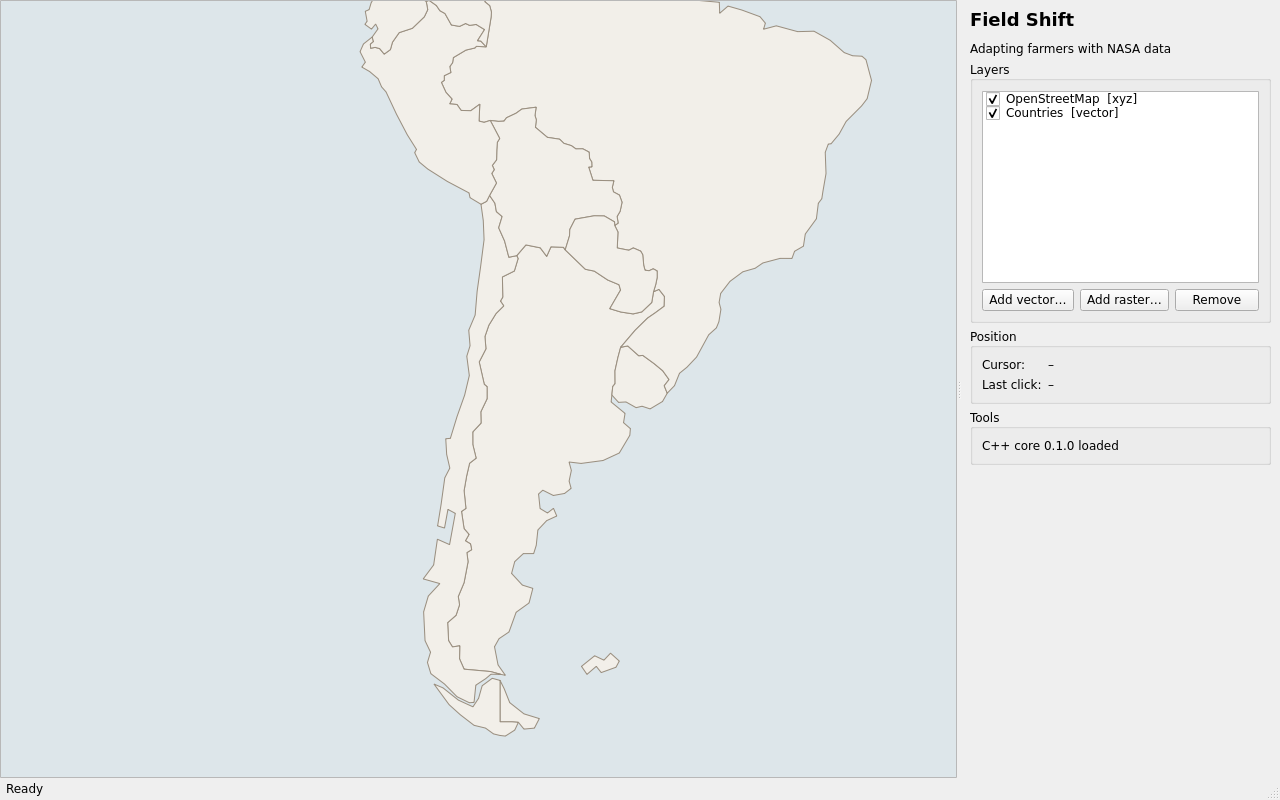
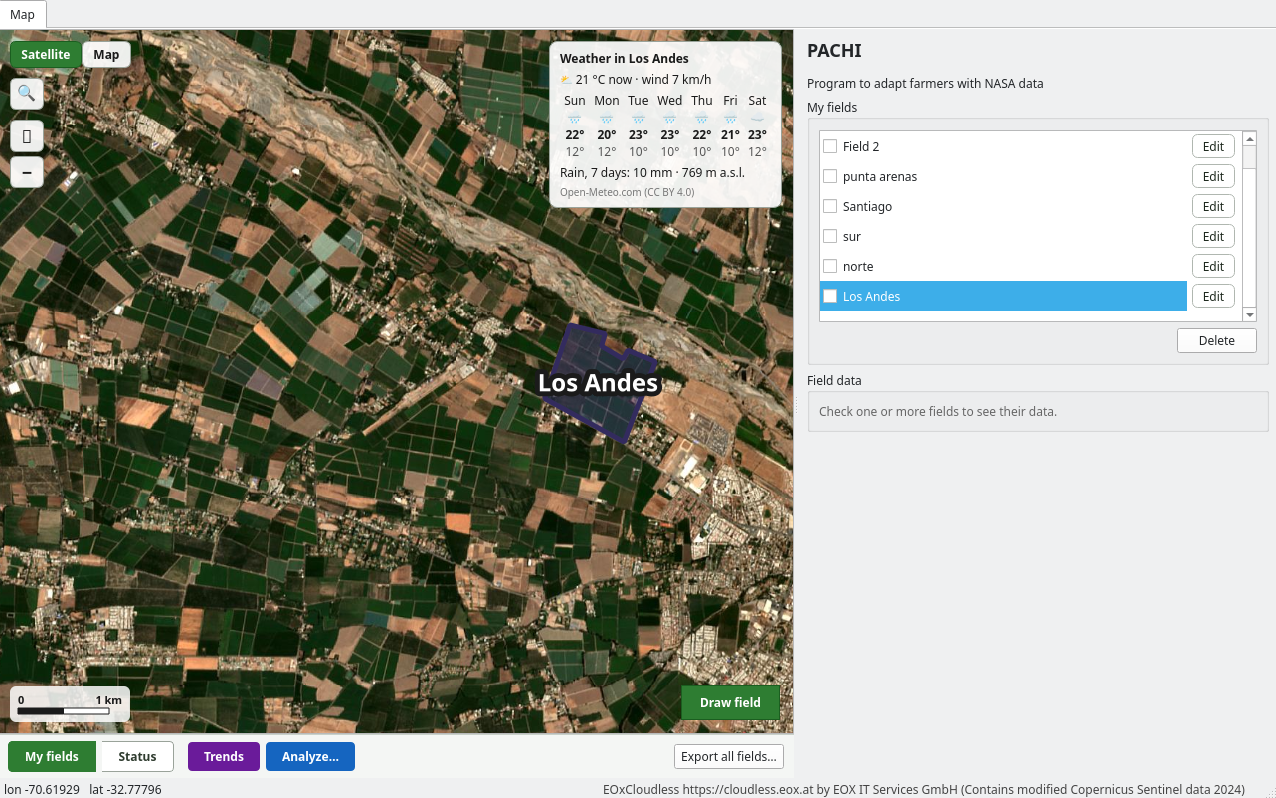
docs images and status panel changed!

diff --git a/fieldshift/ui/status_panel.py b/fieldshift/ui/status_panel.py
@@ -1,0 +1,204 @@
+"""Status panel: the right column of the map tab while "Status" is chosen,
+with how one field is now. Top: field chooser and period (7 / 14 / 30 days).
+Below, scrolling: the "today" tiles, then the Weather, Growth and Soil
+sections (table left, chart right, alerts under them).
+
+Clicking another field on the map shows that field; choosing one in the
+list also moves the map to it. Uses the map only
+through MapView (clicked, layer_hovered) and the fields through
+FieldsManager. Every text comes from fieldshift/i18n/<language>.json.
+"""
+
+from fieldshift.i18n import tr
+from fieldshift.map import Event
+from fieldshift.qt import QtCore, QtWidgets
+from fieldshift.status import PERIODS, status_report
+from fieldshift.ui.analysis_widgets import format_date
+from fieldshift.ui.status_widgets import SectionCard, SummaryTile
+
+# smallest width of the panel (pixels)
+MIN_WIDTH_PX = 480
+
+_STYLE = """
+QFrame#statusPanel { background: #f4f6f4; }
+QScrollArea, QWidget#statusContent { background: transparent; border: none; }
+QPushButton#period { border: 1px solid #9aa39a; padding: 3px 10px; background: white; }
+QPushButton#period:checked { background: #00796b; color: white; border-color: #00796b; }
+QLabel#exampleBanner { background: #fff8e1; border: 1px solid #ffe082; border-radius: 4px;
+                       padding: 4px 8px; color: #6d4c00; }
+"""
+
+
+# the panel. open(layer_id) shows a field
+class StatusPanel(QtWidgets.QFrame):
+
+    # (MapView view, FieldsManager fields, QWidget parent = None)
+    def __init__(self, view, fields, parent=None):
+        super().__init__(parent)
+        self.view = view
+        self.fields = fields
+        self.layer_id = None           # field shown
+        self.days = PERIODS[0]
+        self.report = None             # StatusReport shown
+        self.sections = {}             # section id -> SectionCard
+        self._hovered = None           # field under the mouse on the map
+        # emitted with (str layer_id) when an alert's "See suggestion" is clicked
+        self.suggestion_requested = Event()
+        self.setObjectName("statusPanel")
+        self.setStyleSheet(_STYLE)
+
+        title = QtWidgets.QLabel(f"<b>{tr('modes.status')}</b>")
+        title.setStyleSheet("font-size: 17px;")
+        self.field_box = QtWidgets.QComboBox()
+        self.field_box.setMinimumWidth(160)
+        self.field_box.setToolTip(tr("status.field_tooltip"))
+        self.field_box.activated.connect(self._on_field_chosen)
+        self.period_buttons = {}
+        periods = QtWidgets.QHBoxLayout()
+        periods.setSpacing(0)
+        group = QtWidgets.QButtonGroup(self)
+        for days in PERIODS:
+            button = QtWidgets.QPushButton(tr("status.days", days=days))
+            button.setObjectName("period")
+            button.setCheckable(True)
+            button.setChecked(days == self.days)
+            button.setToolTip(tr("status.period_tooltip"))
+            button.clicked.connect(lambda _=False, d=days: self.set_days(d))
+            group.addButton(button)
+            periods.addWidget(button)
+            self.period_buttons[days] = button
+        header = QtWidgets.QHBoxLayout()
+        header.addWidget(title)
+        header.addSpacing(8)
+        header.addWidget(self.field_box, 1)
+        header.addSpacing(8)
+        header.addLayout(periods)
+
+        self.info_label = QtWidgets.QLabel()
+        self.info_label.setStyleSheet("color: #666; font-size: 11px;")
+        #self.example_label = QtWidgets.QLabel(tr("status.example"))
+        #self.example_label.setObjectName("exampleBanner")
+        #self.example_label.setWordWrap(True)
+
+        self.content = QtWidgets.QWidget()
+        self.content.setObjectName("statusContent")
+        self.content_layout = QtWidgets.QVBoxLayout(self.content)
+        self.content_layout.setContentsMargins(0, 0, 4, 0)
+        self.content_layout.setSpacing(10)
+        self.scroll = QtWidgets.QScrollArea()
+        self.scroll.setWidgetResizable(True)
+        self.scroll.setHorizontalScrollBarPolicy(QtCore.Qt.ScrollBarPolicy.ScrollBarAlwaysOff)
+        self.scroll.setWidget(self.content)
+
+        layout = QtWidgets.QVBoxLayout(self)
+        layout.setContentsMargins(12, 10, 8, 10)
+        layout.setSpacing(6)
+        layout.addLayout(header)
+        layout.addWidget(self.info_label)
+        #layout.addWidget(self.example_label)
+        layout.addWidget(self.scroll, 1)
+        self.setMinimumWidth(MIN_WIDTH_PX)
+
+        view.layer_hovered.connect(self._on_hover)
+        view.clicked.connect(self._on_map_click)
+        fields.fields_changed.connect(self._on_fields_changed)
+
+    # (str layer_id)
+    # shows that field (the first one when None). returns True when a field
+    # is shown
+    def open(self, layer_id=None):
+        ids = self.fields.layer_ids()
+        if not ids:
+            return False
+        self.layer_id = layer_id if layer_id in ids else ids[0]
+        self._fill_fields()
+        self.refresh()
+        return True
+
+    # (int days)
+    # shows the last days (one of PERIODS)
+    def set_days(self, days):
+        self.days = days
+        self.period_buttons[days].setChecked(True)
+        if self.report is not None:
+            self.refresh()
+
+    # ()
+    # builds the report of the field and period shown again
+    def refresh(self):
+        field = self.fields.field(self.layer_id)
+        if field is None:
+            return
+        self.report = report = status_report(field, self.days)
+        self.info_label.setText(tr("status.info", date=format_date(report.last_date),
+                                   days=report.days))
+        #self.example_label.setVisible(report.example)
+        while self.content_layout.count():
+            item = self.content_layout.takeAt(0)
+            if item.widget() is not None:
+                item.widget().deleteLater()
+        self.sections = {}
+
+        today = QtWidgets.QLabel(f"<b>{tr('status.today')}</b>")
+        self.content_layout.addWidget(today)
+        tiles = QtWidgets.QGridLayout()
+        tiles.setSpacing(6)
+        for i, tile in enumerate(report.summary):
+            widget = SummaryTile(tile,3)
+            #widget.clicked.connect(self.show_row)
+            tiles.addWidget(widget, i // 3, i % 3)
+        alerts = len(report.alerts())
+        holder = QtWidgets.QWidget()
+        holder.setLayout(tiles)
+        self.content_layout.addWidget(holder)
+        #if alerts:
+            #count = QtWidgets.QLabel(tr("status.alert_count", count=alerts))
+            #count.setStyleSheet("color: #c62828;")
+            #self.content_layout.addWidget(count)
+        #for section in report.sections:
+            #card = SectionCard(section)
+            #card.suggestion_requested.connect(
+            #    lambda: self.suggestion_requested.emit(self.layer_id))
+            #self.content_layout.addWidget(card)
+            #self.sections[section.id] = card
+        self.content_layout.addStretch(1)
+
+    # (str section_id, str row_key)
+    # scrolls to a section and shows that row in its chart
+    def show_row(self, section_id, row_key):
+        card = self.sections.get(section_id)
+        if card is None:
+            return
+        card.table.select_key(row_key)
+        self.scroll.ensureWidgetVisible(card, 0, 0)
+        QtCore.QTimer.singleShot(0, lambda: self.scroll.verticalScrollBar().setValue(card.y()))
+
+    # -- helpers -----------------------------------------------------------
+
+    def _fill_fields(self):
+        self.field_box.blockSignals(True)
+        self.field_box.clear()
+        for layer_id in self.fields.layer_ids():
+            self.field_box.addItem(self.fields.field(layer_id).name, layer_id)
+        self.field_box.setCurrentIndex(max(0, self.field_box.findData(self.layer_id)))
+        self.field_box.blockSignals(False)
+
+    def _on_field_chosen(self, index):
+        layer_id = self.field_box.itemData(index)
+        self.open(layer_id)
+        self.fields.zoom_to(layer_id)
+
+    def _on_hover(self, layer_id, lon, lat):
+        self._hovered = layer_id if self.fields.is_field(layer_id) else None
+
+    def _on_map_click(self, lon, lat):
+        if self.isVisible() and self._hovered and self._hovered != self.layer_id:
+            self.open(self._hovered)
+
+    def _on_fields_changed(self):
+        if not self.isVisible():
+            return
+        if self.fields.is_field(self.layer_id):
+            self._fill_fields()
+        else:
+            self.open(None)            # the field shown was deleted
